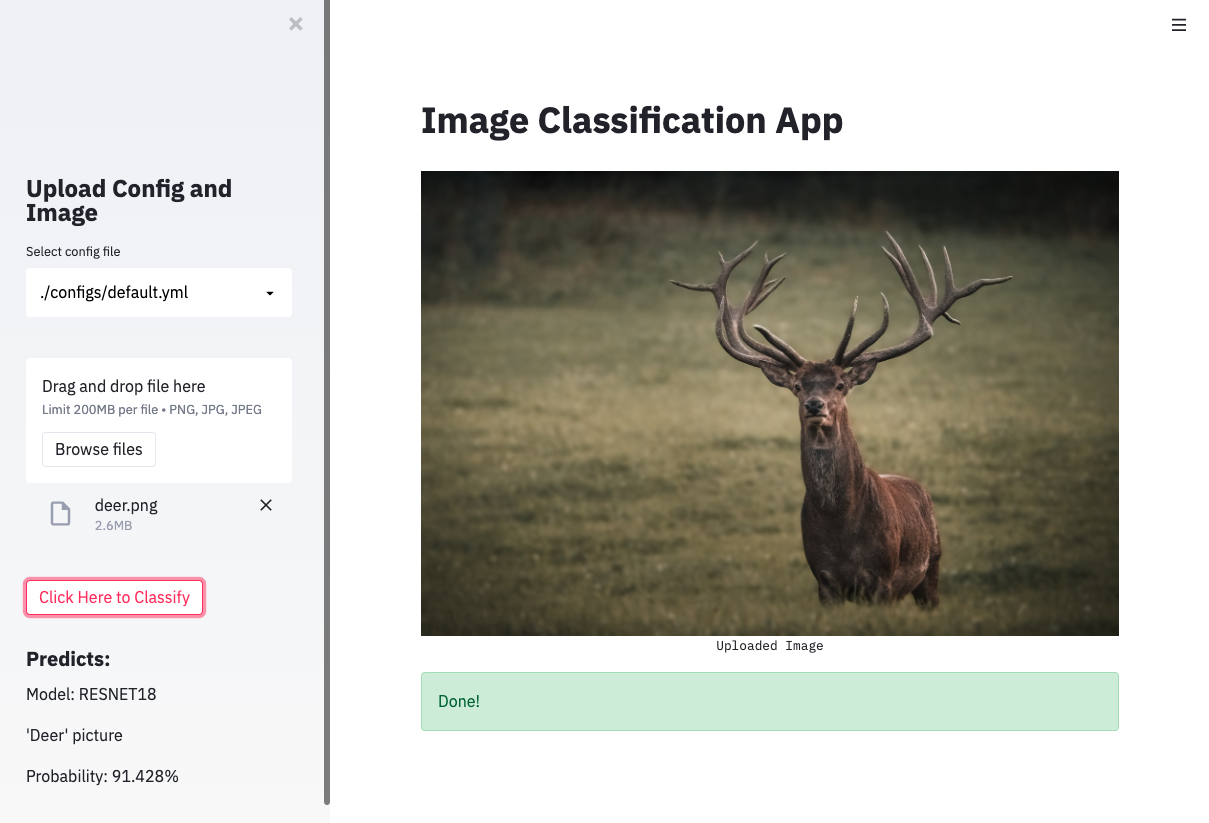
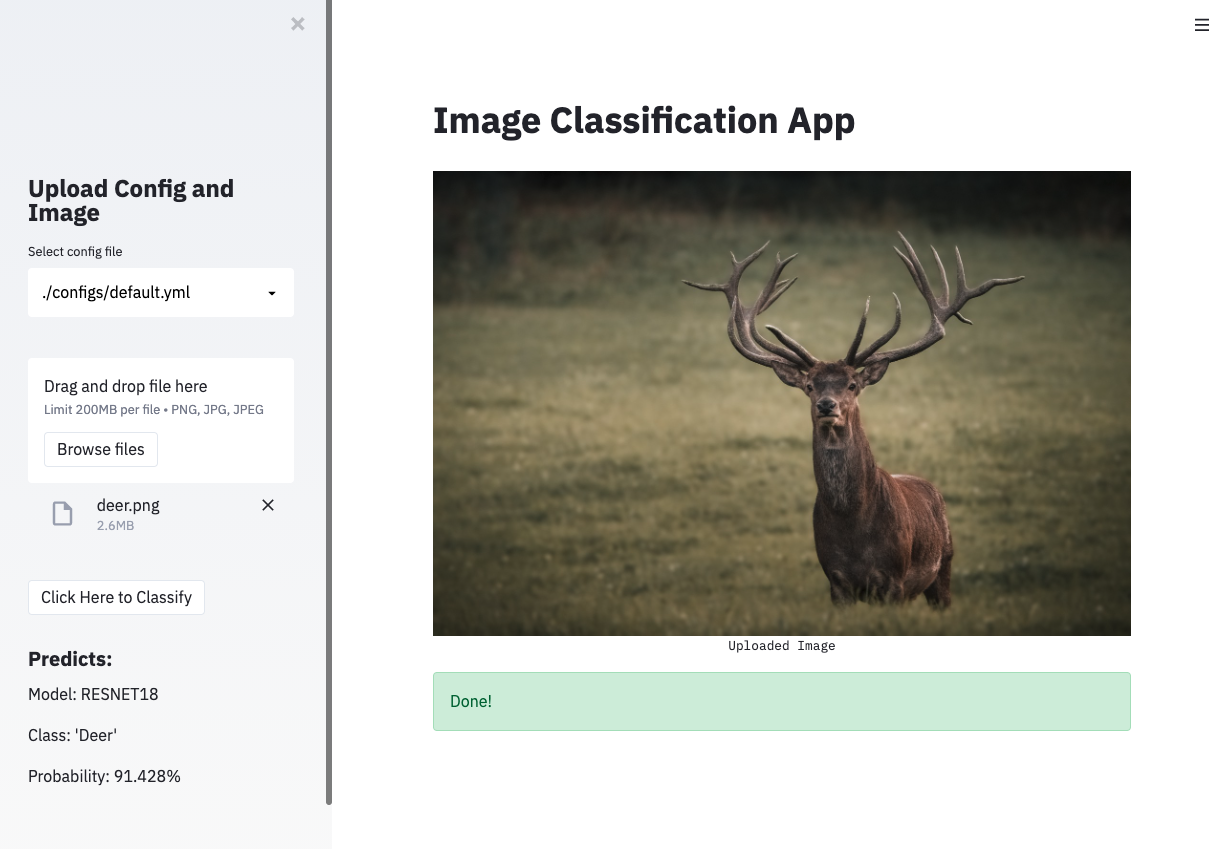
fix images

diff --git a/app/app.py b/app/app.py
@@ -54,5 +54,5 @@ if st.sidebar.button('Click Here to Classify'):
 
         class_name = inferrer.classes[results['label']]
         st.sidebar.write(f"Model: {inferrer.model_name.upper()}\n")
-        st.sidebar.write(f"'{class_name.capitalize()}' picture\n")
+        st.sidebar.write(f"Class: '{class_name.capitalize()}'\n")
         st.sidebar.write(f"Probability: {probability}%")
